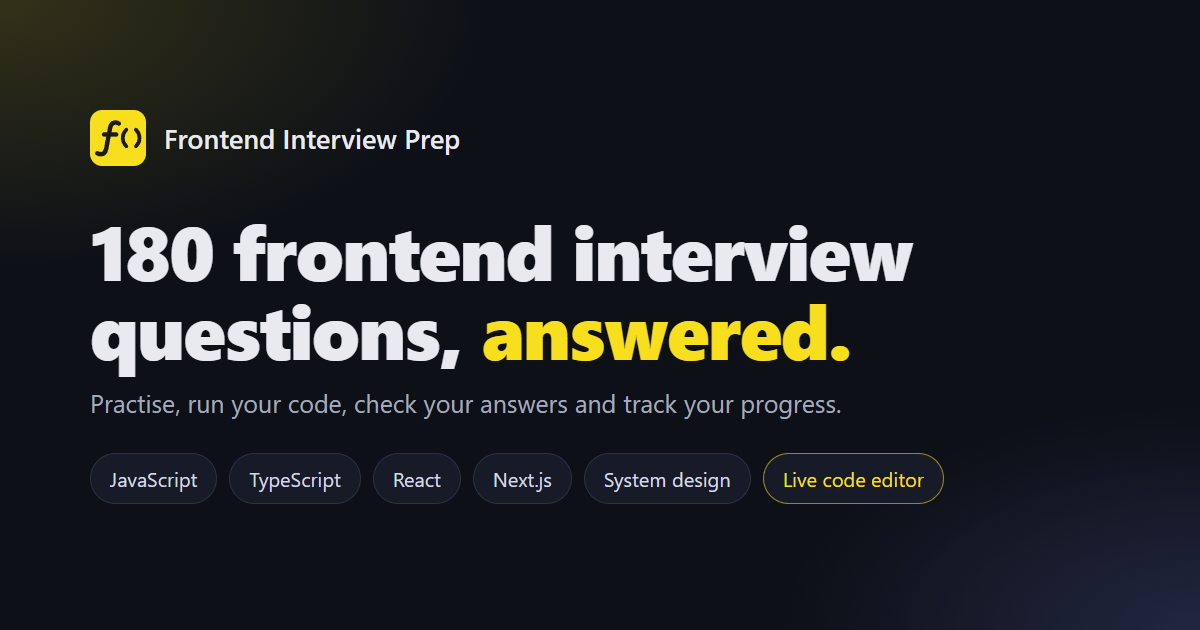
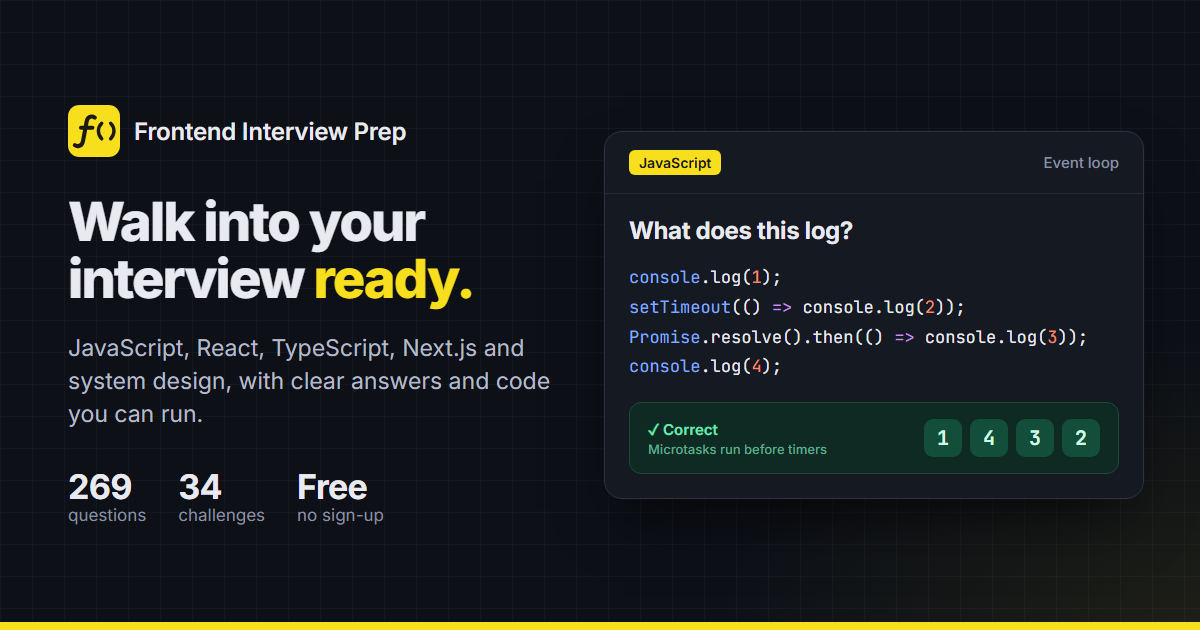
Refresh the landing hero screenshots and the link preview image (#13)
The hero screenshots were scrolled mid-page (stats cut off under the nav),
showed the old 180-question count, and light and dark showed different
screens. Both are now the same uncropped React track view at 1120x800.

The link preview image now shows 269 questions and a real event-loop
question instead of an empty right half. Its source is docs/og-image.html.
Image URLs get ?v=2 so caches pick up the new files.

diff --git a/docs/og-image.html b/docs/og-image.html
@@ -1,0 +1,69 @@
+<!doctype html>
+<html><head><meta charset="utf-8">
+<link href="https://fonts.googleapis.com/css2?family=Inter:wght@400;500;600;700;800&family=JetBrains+Mono:wght@400;500;700&display=block" rel="stylesheet">
+<style>
+  * { box-sizing: border-box; margin: 0; padding: 0; }
+  html, body { width: 1200px; height: 630px; overflow: hidden; }
+  body {
+    font-family: Inter, "Segoe UI", sans-serif; color: #e8eaf0;
+    background:
+      radial-gradient(700px 420px at 100% 100%, rgba(247,223,30,.07), transparent 70%),
+      linear-gradient(rgba(255,255,255,.028) 1px, transparent 1px) 0 0 / 32px 32px,
+      linear-gradient(90deg, rgba(255,255,255,.028) 1px, transparent 1px) 0 0 / 32px 32px,
+      #0d1017;
+    display: grid; grid-template-columns: 1fr 540px; gap: 40px; align-items: center;
+    padding: 0 56px 0 68px; position: relative;
+  }
+  body::after { content: ""; position: absolute; left: 0; right: 0; bottom: 0; height: 8px; background: #f7df1e; }
+  .brand { display: flex; align-items: center; gap: 14px; font-size: 24px; font-weight: 600; letter-spacing: -.01em; margin-bottom: 36px; }
+  .brand svg { width: 52px; height: 52px; }
+  h1 { font-size: 54px; line-height: 1.06; font-weight: 800; letter-spacing: -.035em; margin-bottom: 24px; }
+  h1 em { font-style: normal; color: #f7df1e; }
+  .sub { font-size: 23px; line-height: 1.45; color: #b4bac6; margin-bottom: 36px; max-width: 520px; }
+  .stats { display: flex; gap: 32px; font-size: 17px; color: #8a91a0; }
+  .stats b { display: block; font-size: 34px; font-weight: 700; color: #e8eaf0; letter-spacing: -.02em; line-height: 1.1; }
+
+  .card { background: #151922; border: 1px solid #2b3240; border-radius: 18px; overflow: hidden;
+    box-shadow: 0 30px 60px -20px rgba(0,0,0,.7), 0 0 0 1px rgba(255,255,255,.02); }
+  .card-h { display: flex; align-items: center; justify-content: space-between; padding: 18px 24px; border-bottom: 1px solid #262c38; }
+  .tag { font-size: 14px; font-weight: 600; color: #1c1917; background: #f7df1e; padding: 4px 10px; border-radius: 6px; }
+  .q { font-size: 15px; color: #8a91a0; font-weight: 500; }
+  .q-title { padding: 22px 24px 4px; font-size: 24px; font-weight: 700; letter-spacing: -.015em; }
+  pre { font-family: "JetBrains Mono", Consolas, monospace; font-size: 17px; line-height: 1.75; padding: 14px 24px 20px; font-variant-ligatures: none; white-space: pre; color: #e8eaf0; }
+  .k { color: #c792ea; } .f { color: #82aaff; } .n { color: #f78c6c; } .p { color: #8a91a0; }
+  .out { margin: 0 24px 24px; padding: 16px 18px; border-radius: 12px; background: #0f2a22; border: 1px solid #1d4a3b;
+    display: flex; align-items: center; justify-content: space-between; }
+  .out-l { font-size: 15px; color: #6ee7b7; font-weight: 600; }
+  .out-l small { display: block; font-size: 13px; color: #5fae90; font-weight: 500; margin-top: 2px; }
+  .seq { display: flex; gap: 8px; }
+  .seq span { font-family: "JetBrains Mono", monospace; font-weight: 700; font-size: 20px; width: 38px; height: 38px; border-radius: 9px;
+    display: grid; place-items: center; background: #134e3a; color: #d1fae5; }
+</style></head>
+<body>
+  <div>
+    <div class="brand">
+      <svg viewBox="0 0 64 64"><rect width="64" height="64" rx="14" fill="#f7df1e"/><path d="M33 15.5c-1.4-1-3-1.5-4.6-1.3-3 .4-4.8 2.6-5.4 6l-4.6 24.6c-.6 3.3-2.6 5.5-5.6 5.8-1.6.2-3.2-.3-4.4-1.2M16 28h14" fill="none" stroke="#1c1917" stroke-width="5" stroke-linecap="round" stroke-linejoin="round"/><path d="M41.5 22.5c-2.8 2.8-4.1 6-4.1 9.5s1.3 6.7 4.1 9.5M52.5 22.5c2.8 2.8 4.1 6 4.1 9.5s-1.3 6.7-4.1 9.5" fill="none" stroke="#1c1917" stroke-width="4.2" stroke-linecap="round" stroke-linejoin="round"/></svg>
+      Frontend Interview Prep
+    </div>
+    <h1>Walk into your interview <em>ready.</em></h1>
+    <p class="sub">JavaScript, React, TypeScript, Next.js and system design, with clear answers and code you can run.</p>
+    <div class="stats">
+      <div><b>269</b>questions</div>
+      <div><b>34</b>challenges</div>
+      <div><b>Free</b>no sign-up</div>
+    </div>
+  </div>
+
+  <div class="card">
+    <div class="card-h"><span class="tag">JavaScript</span><span class="q">Event loop</span></div>
+    <div class="q-title">What does this log?</div>
+<pre><span class="f">console</span>.log(<span class="n">1</span>);
+<span class="f">setTimeout</span>(() <span class="k">=&gt;</span> console.log(<span class="n">2</span>));
+<span class="f">Promise</span>.resolve().then(() <span class="k">=&gt;</span> console.log(<span class="n">3</span>));
+<span class="f">console</span>.log(<span class="n">4</span>);</pre>
+    <div class="out">
+      <div class="out-l">✓ Correct<small>Microtasks run before timers</small></div>
+      <div class="seq"><span>1</span><span>4</span><span>3</span><span>2</span></div>
+    </div>
+  </div>
+</body></html>

diff --git a/index.html b/index.html
@@ -20,13 +20,13 @@
   <meta property="og:title" content="Frontend Interview Questions and Answers – React, JavaScript, Next.js">
   <meta property="og:description" content="269 frontend interview questions with clear answers, coding challenges you can run, and progress tracking. Free, no sign-up.">
   <meta property="og:url" content="https://frontend-interview-prepare.vercel.app/">
-  <meta property="og:image" content="https://frontend-interview-prepare.vercel.app/assets/og-image.png">
+  <meta property="og:image" content="https://frontend-interview-prepare.vercel.app/assets/og-image.png?v=2">
   <meta property="og:image:width" content="1200">
   <meta property="og:image:height" content="630">
   <meta name="twitter:card" content="summary_large_image">
   <meta name="twitter:title" content="Frontend Interview Questions and Answers – React, JavaScript, Next.js">
   <meta name="twitter:description" content="269 frontend interview questions with clear answers, coding challenges you can run, and progress tracking. Free, no sign-up.">
-  <meta name="twitter:image" content="https://frontend-interview-prepare.vercel.app/assets/og-image.png">
+  <meta name="twitter:image" content="https://frontend-interview-prepare.vercel.app/assets/og-image.png?v=2">
 
   <!-- Structured data for search engines (data blocks, so the security policy allows them). -->
   <script type="application/ld+json">{"@context":"https://schema.org","@type":"Organization","@id":"https://frontend-interview-prepare.vercel.app/#organization","name":"Frontend Interview Prep","url":"https://frontend-interview-prepare.vercel.app/","logo":{"@type":"ImageObject","url":"https://frontend-interview-prepare.vercel.app/assets/favicon-192.png","width":192,"height":192},"sameAs":["https://github.com/chaudharyShub/frontend-interview-prep"]}</script>
@@ -90,8 +90,8 @@
           </ul>
         </div>
         <figure class="lp-shot">
-          <img class="shot-light" src="/docs/screenshot-light.png" width="1440" height="900" alt="The Frontend Interview Prep app: question tracks with progress bars for JavaScript, TypeScript, React, Next.js and system design">
-          <img class="shot-dark" src="/docs/screenshot-dark.png" width="1440" height="900" alt="The Frontend Interview Prep app in dark mode" loading="lazy">
+          <img class="shot-light" src="/docs/screenshot-light.png?v=2" width="1120" height="800" alt="The React track in Frontend Interview Prep: section progress in the sidebar, ticked-off questions, and the model answer to “What is Virtual DOM?” opened">
+          <img class="shot-dark" src="/docs/screenshot-dark.png?v=2" width="1120" height="800" alt="The React track in Frontend Interview Prep: section progress in the sidebar, ticked-off questions, and the model answer to “What is Virtual DOM?” opened, in dark mode" loading="lazy">
         </figure>
       </div>
     </section>

diff --git a/app.html b/app.html
@@ -20,13 +20,13 @@
   <meta property="og:title" content="All Frontend Interview Questions – JavaScript, React, Next.js">
   <meta property="og:description" content="269 frontend interview questions with answers. Practise, check yourself and track your progress.">
   <meta property="og:url" content="https://frontend-interview-prepare.vercel.app/app">
-  <meta property="og:image" content="https://frontend-interview-prepare.vercel.app/assets/og-image.png">
+  <meta property="og:image" content="https://frontend-interview-prepare.vercel.app/assets/og-image.png?v=2">
   <meta property="og:image:width" content="1200">
   <meta property="og:image:height" content="630">
   <meta name="twitter:card" content="summary_large_image">
   <meta name="twitter:title" content="All Frontend Interview Questions – JavaScript, React, Next.js">
   <meta name="twitter:description" content="269 frontend interview questions with answers. Practise, check yourself and track your progress.">
-  <meta name="twitter:image" content="https://frontend-interview-prepare.vercel.app/assets/og-image.png">
+  <meta name="twitter:image" content="https://frontend-interview-prepare.vercel.app/assets/og-image.png?v=2">
 
   <script src="/assets/js/theme.js"></script>
   <link rel="stylesheet" href="/assets/css/styles.css">

diff --git a/README.md b/README.md
@@ -100,13 +100,13 @@ The pages load their files from the site root (`/assets/…`), so opening the HT
 │   ├── icon-maskable-512.png
 │   ├── js/pwa.js           # Registers the service worker
 │   ├── apple-touch-icon.png
-│   └── og-image.png        # Link preview image
+│   └── og-image.png        # Link preview image (made from docs/og-image.html)
 ├── favicon.ico             # 16, 32 and 48 px icon at the site root
 ├── manifest.webmanifest    # Makes the app installable (name, icons, start page)
 ├── sw.js                   # Service worker: network first, saved copies when offline
 ├── react-preview.html      # Page loaded in a sandboxed iframe for React previews
 ├── html-preview.html       # Page loaded in a sandboxed iframe for HTML & CSS previews
-├── docs/                   # README screenshots
+├── docs/                   # README screenshots and og-image.html, the link-preview source
 ├── serve.json              # App page addresses for `npx serve`
 ├── sitemap.xml             # Pages for search engines: /, /app and each track page
 └── vercel.json             # App page addresses, redirects from the old /react-style URLs, security headers and caching
